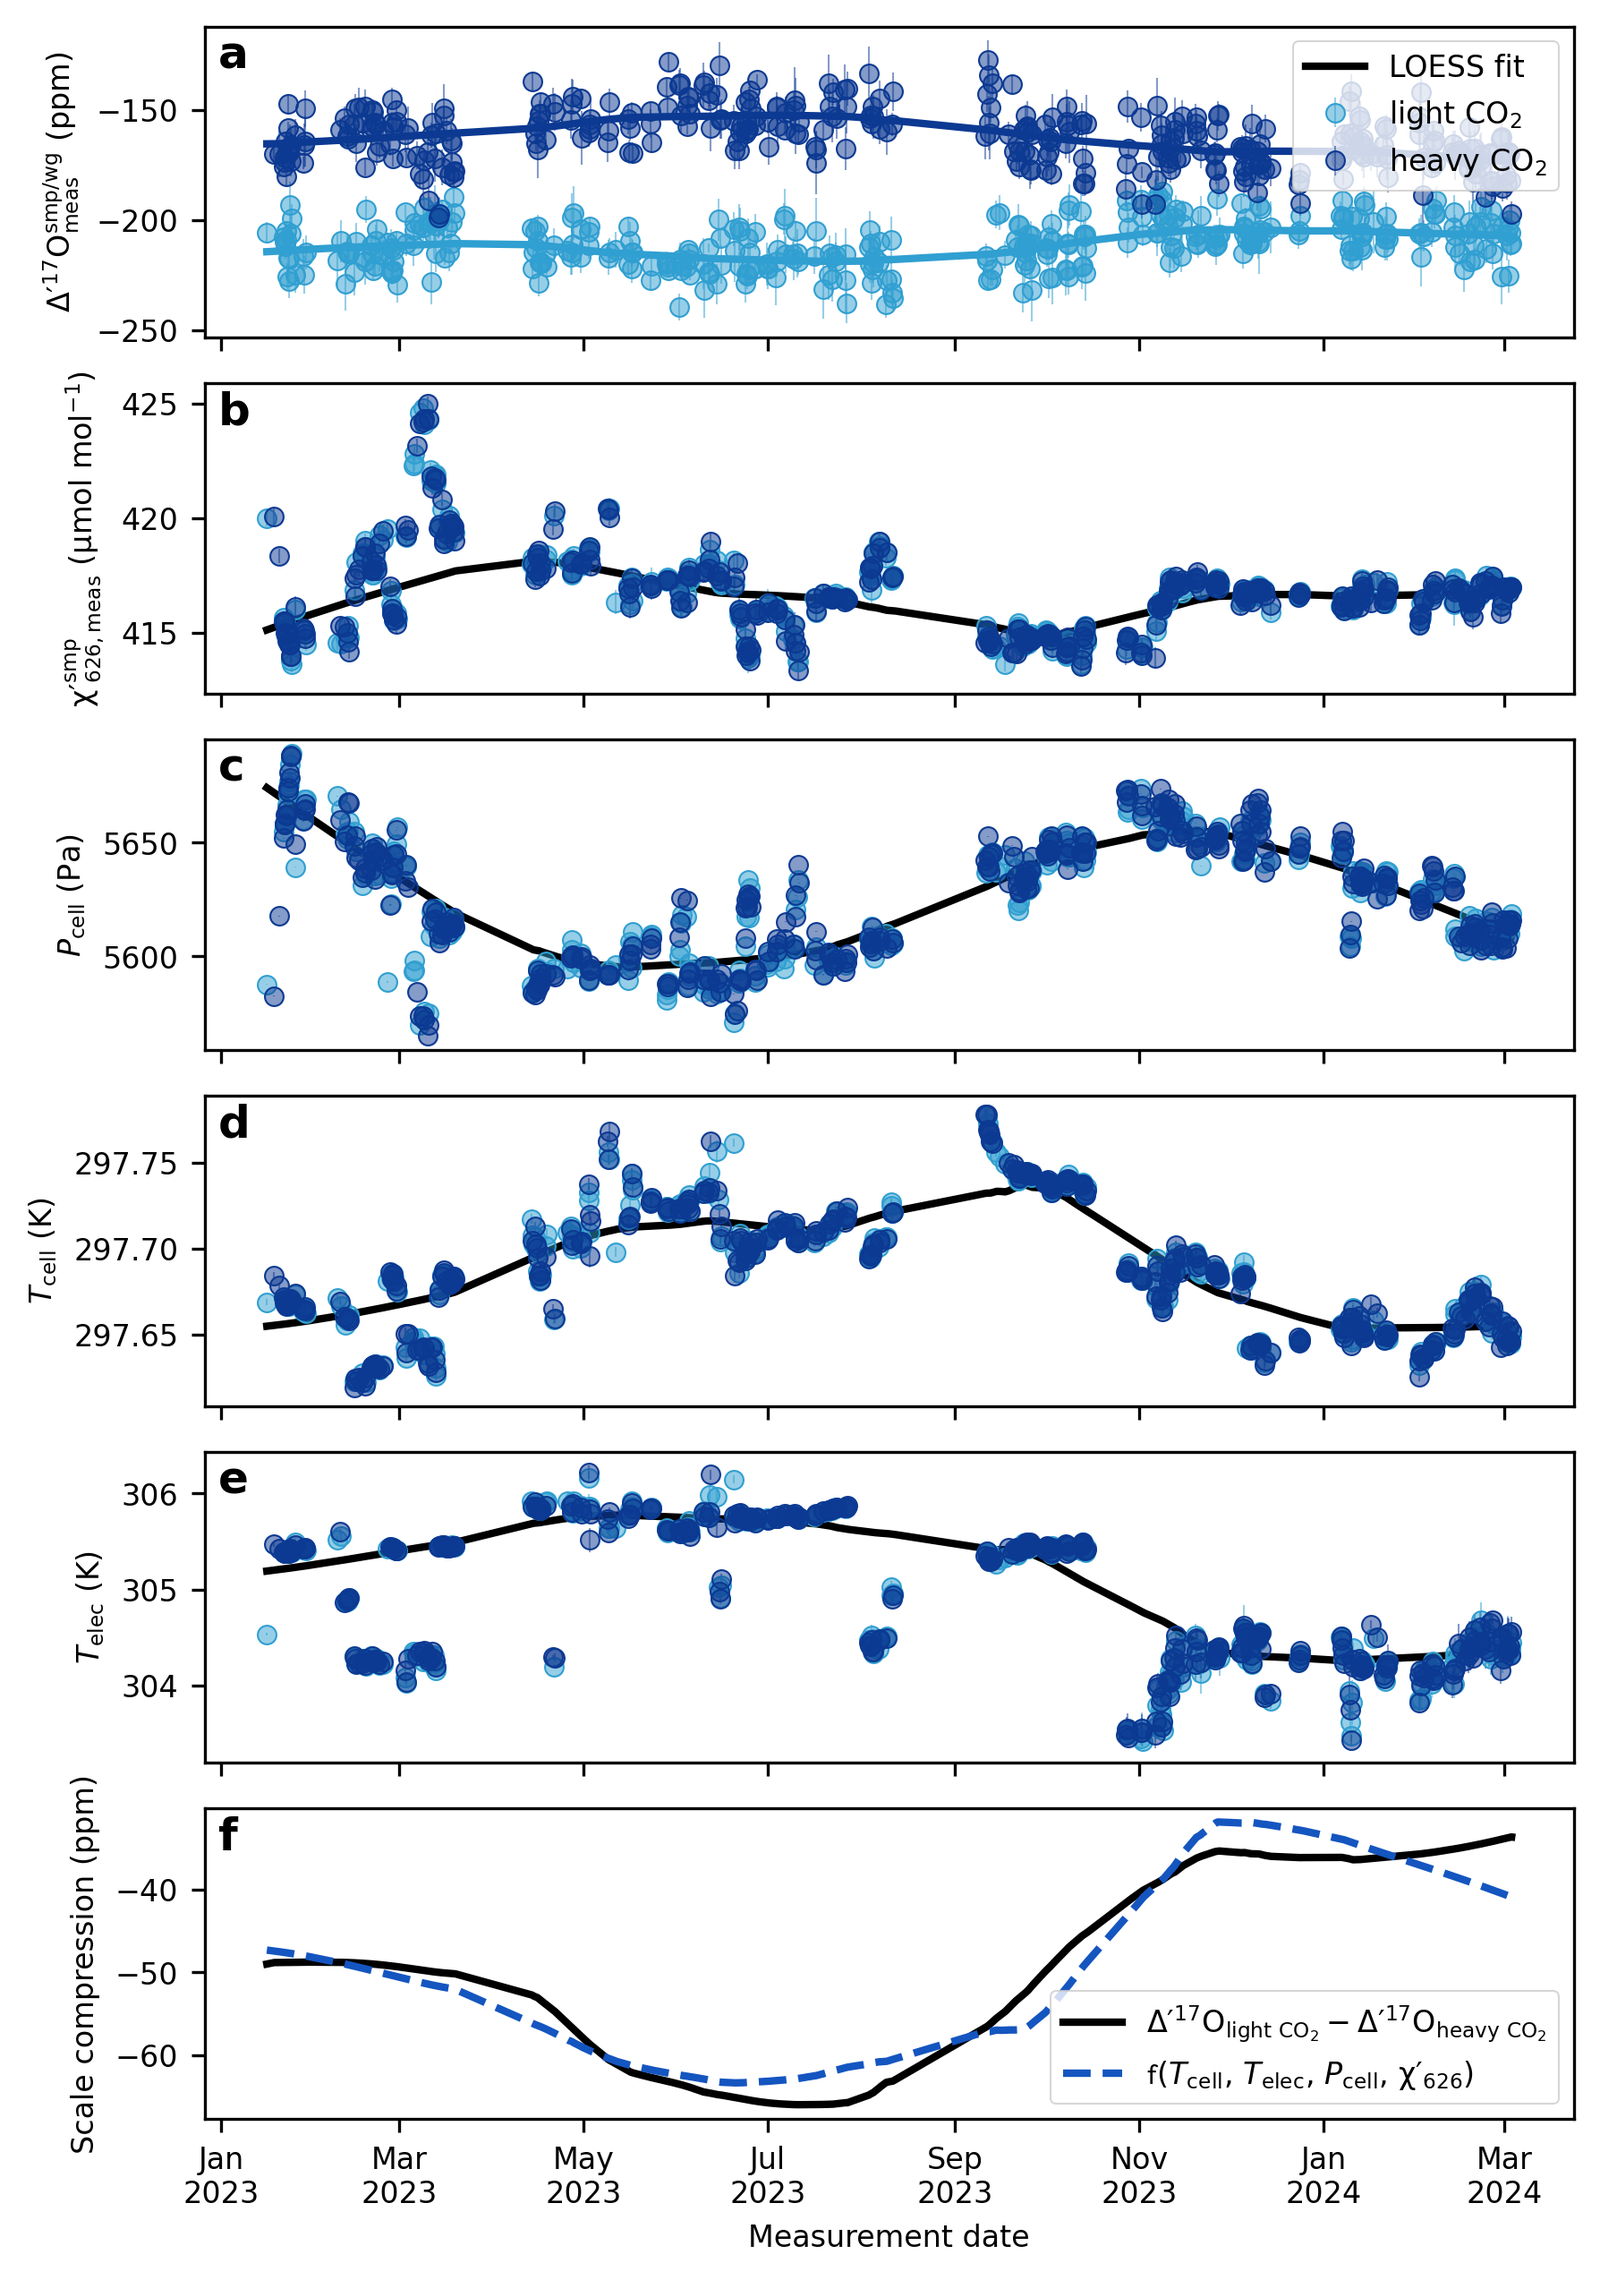
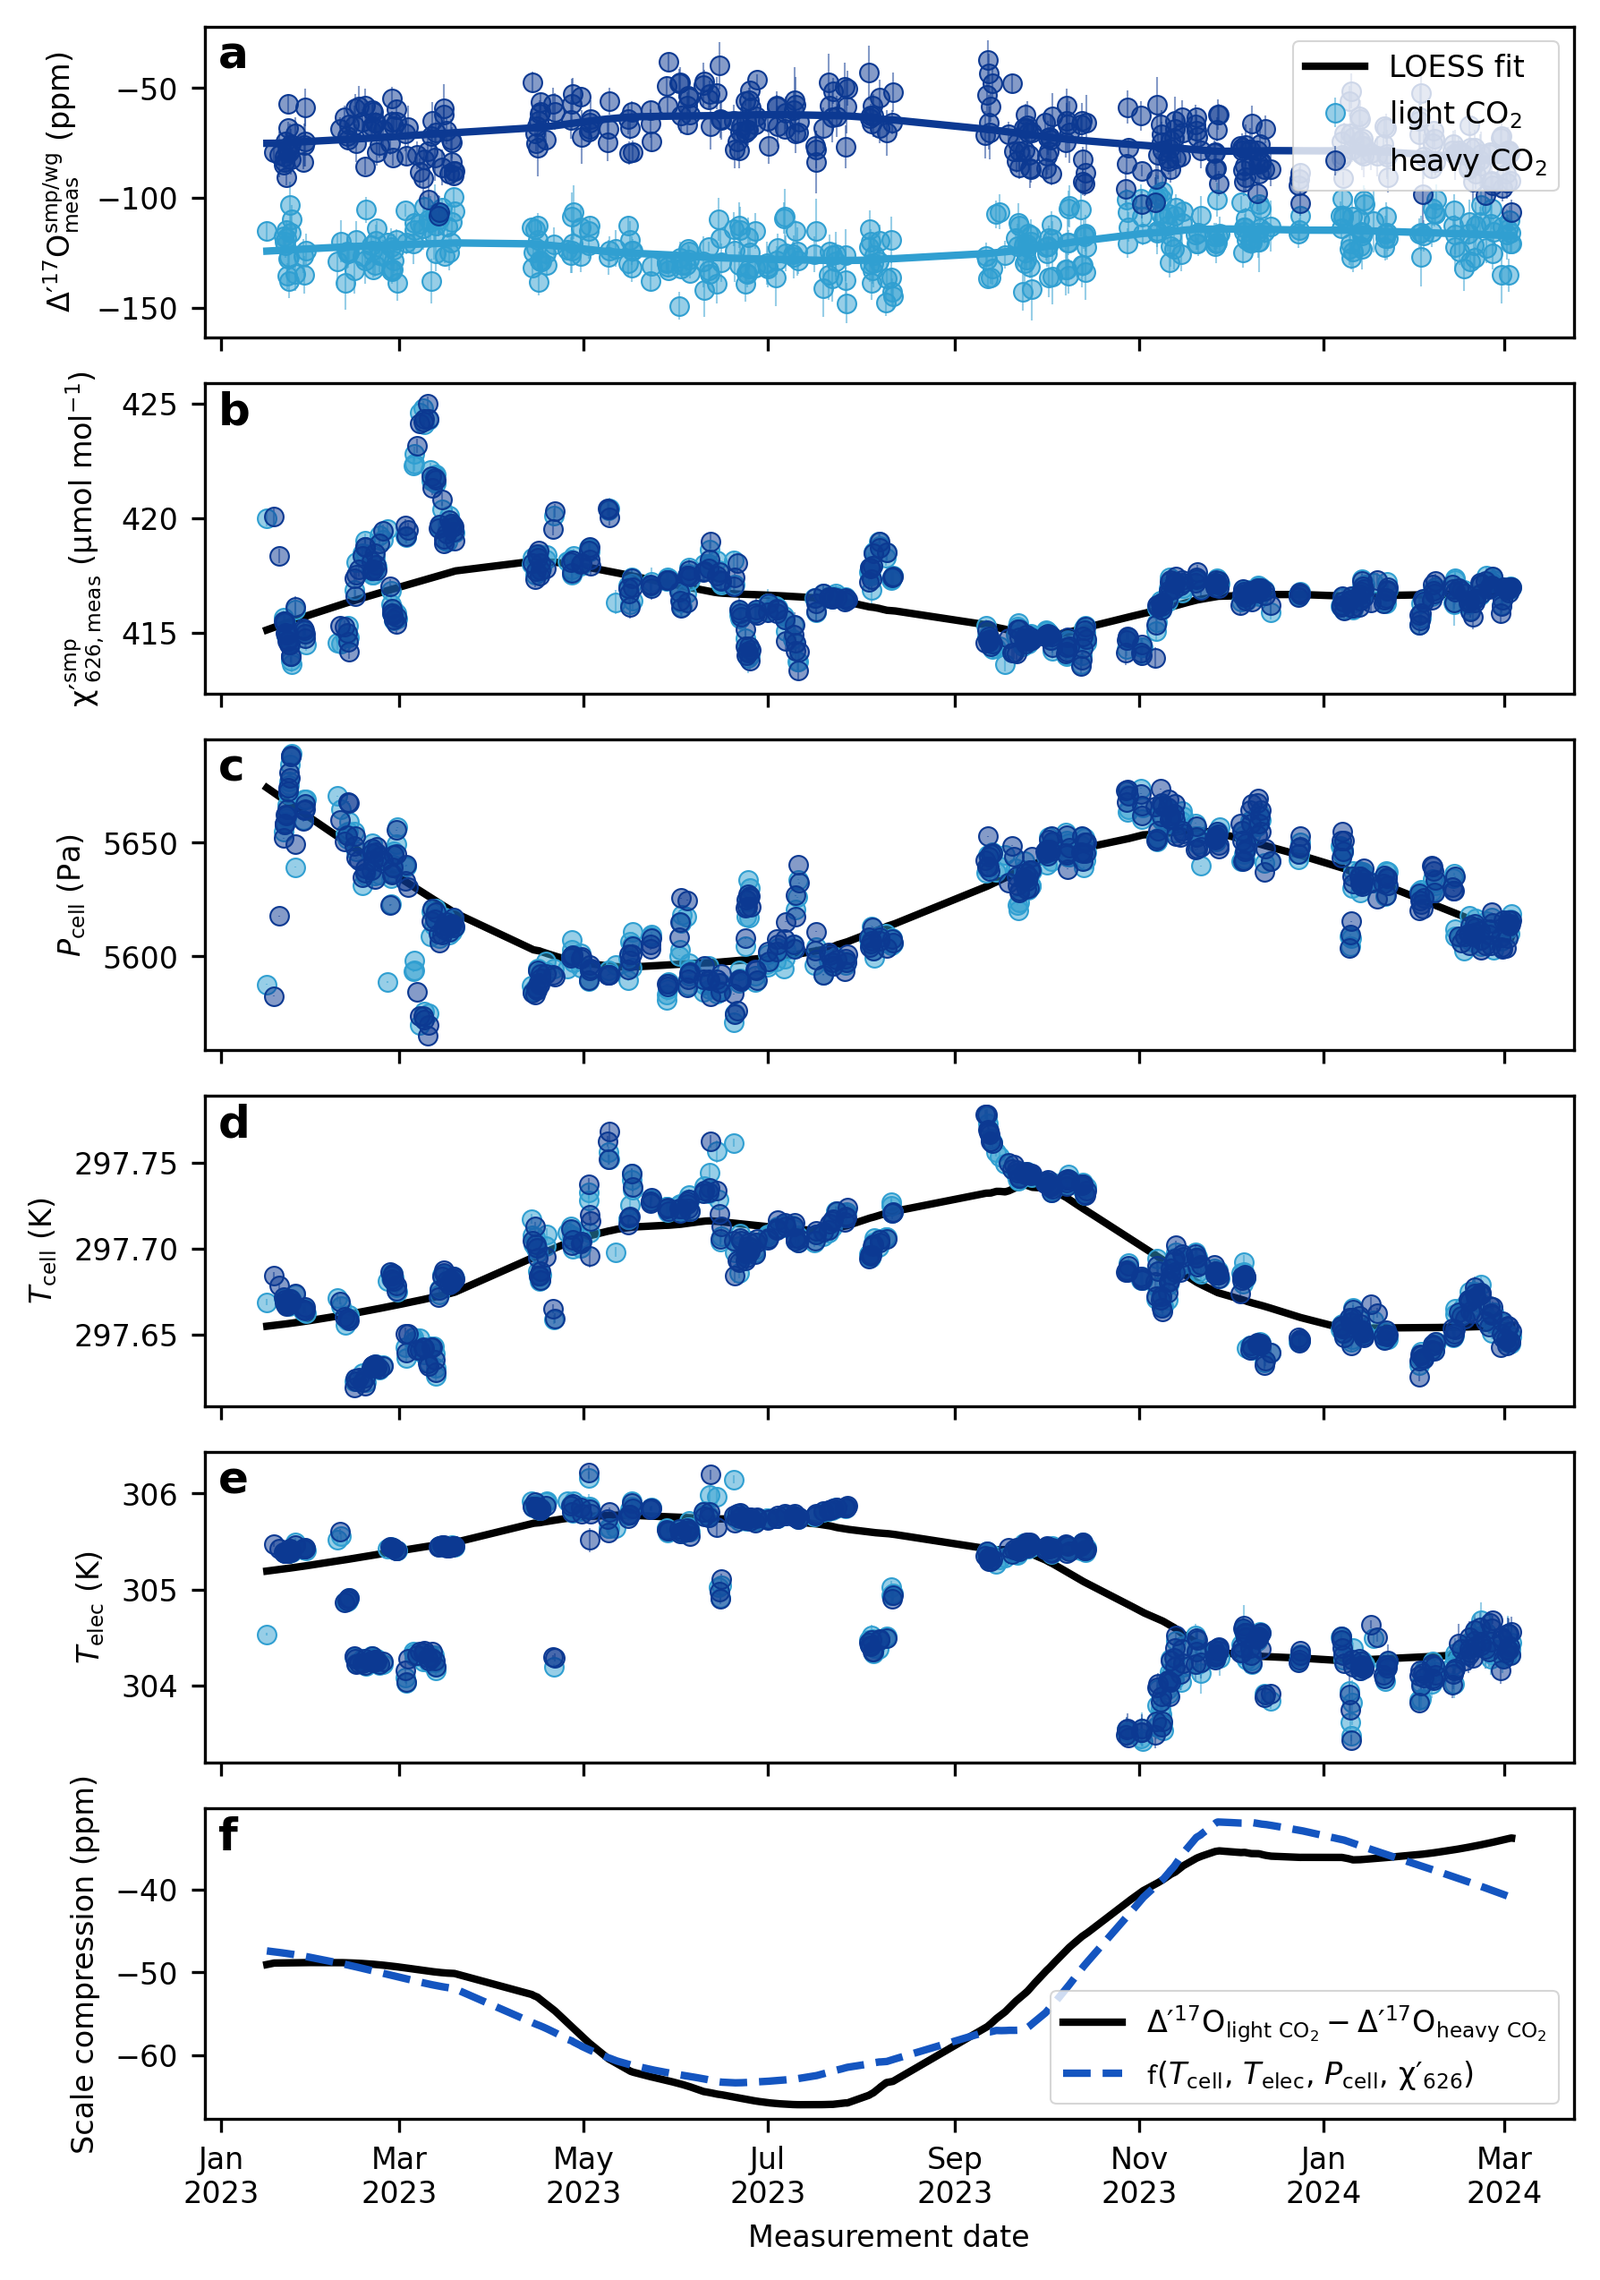
before lunch

diff --git a/codes/LT 4 concentration.py b/codes/LT 4 concentration.py
@@ -60,14 +60,6 @@ df_ug = pd.read_csv(os.path.join(data_dir, "LT_Table_S4.csv"))
 df_ug['SampleName'] = df_ug['SampleName'].str.replace("VsRef", " $CO_2$")
 df_ug['dateTimeMeasured'] = pd.to_datetime(df_ug['dateTimeMeasured'], format='%Y-%m-%d %H:%M:%S')
 
-# Print the start and end of analytical sessions in Göttingen
-# print("Göttingen analytical sessions:")
-# years = df_ug['dateTimeMeasured'].dt.year.unique()
-# for year in years:
-#     earliest = df_ug[df_ug['dateTimeMeasured'].dt.year == year]['dateTimeMeasured'].min()
-#     latest = df_ug[df_ug['dateTimeMeasured'].dt.year == year]['dateTimeMeasured'].max()
-#     print(f"{earliest.date().strftime('%d %B, %Y')} to {latest.date().strftime('%d %B, %Y')}")
-
 # Convert delta-values relative to WG (so a zero enrichment would yield a d18O of 0)
 df_ug["d18O"] = deltaO_vs_WG(df_ug["d18O"], 28.048)
 df_ug["d17O"] = deltaO_vs_WG(df_ug["d17O"], 14.621)

diff --git a/codes/LT 7 plot standards.py b/codes/LT 7 plot standards.py
@@ -96,6 +96,10 @@ df_ug['cell_pressure_error'] = df_ug['PCellRef_error']*133.322
 df_ug['chi_p_626'] = df_ug['pCO2Ref']
 df_ug['chi_p_626_error'] = df_ug['pCO2Ref_error']
 
+# Convert delta-values relative to WG (so a zero enrichment would yield a d18O of 0)
+df_ug["d18O"] = deltaO_vs_WG(df_ug["d18O"], 28.048)
+df_ug["d17O"] = deltaO_vs_WG(df_ug["d17O"], 14.621)
+df_ug["Dp17O"] = Dp17O(df_ug["d17O"], df_ug["d18O"])
 
 
 # Function to apply LOESS smoothing 
